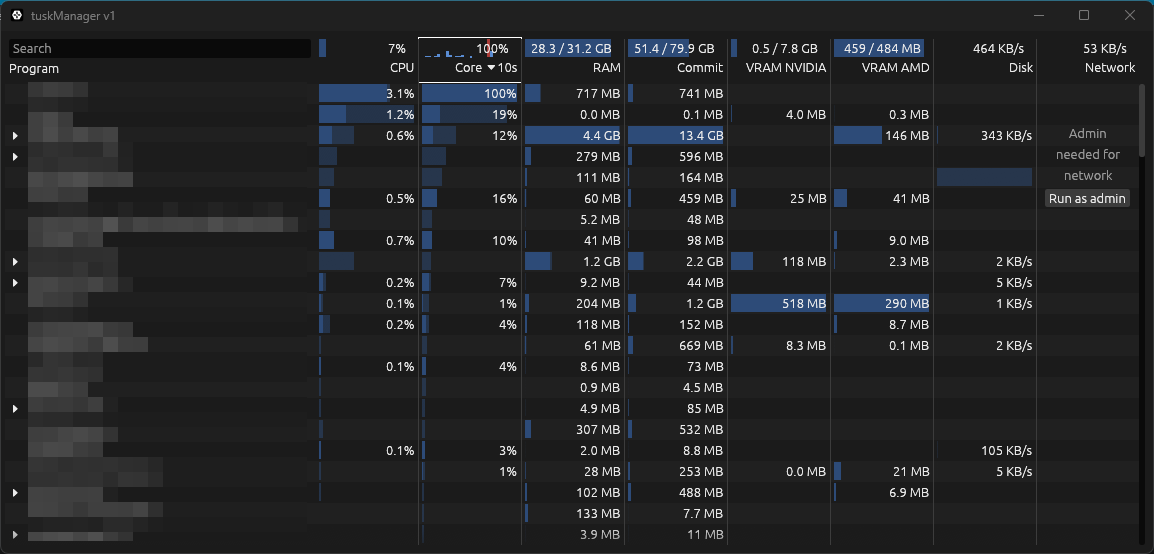
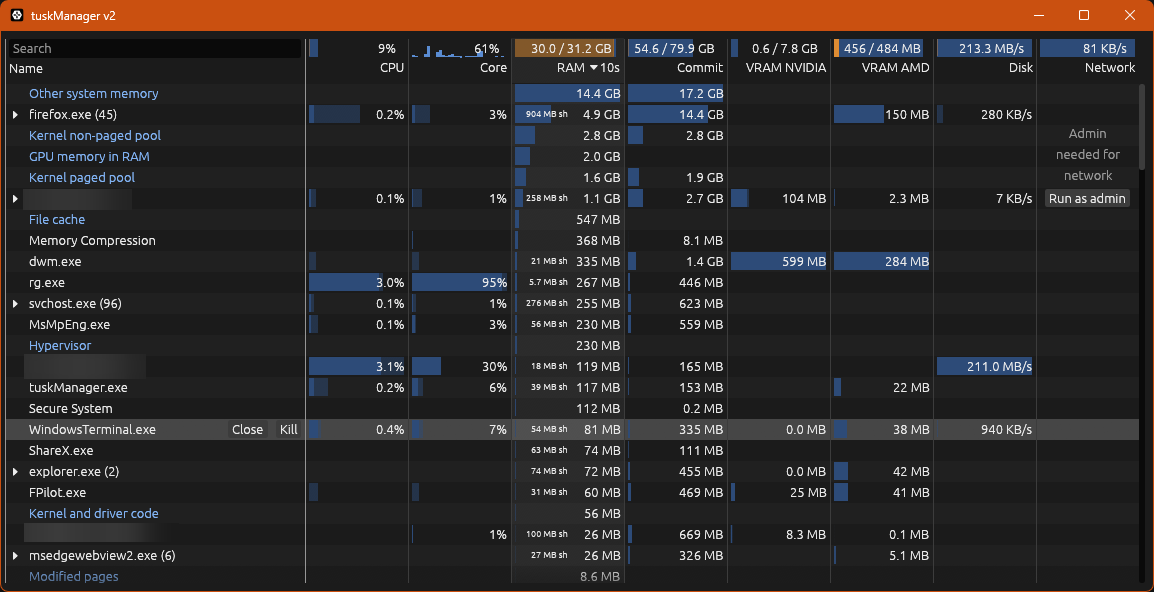
Update readme

diff --git a/README.md b/README.md
@@ -3,8 +3,11 @@
 Simple replacement for Task Manager that suits a very particular set of needs (mine):
 
  - Show single-core bottlenecks
+ - Non-process entries eating ram
  - Faster close/kill access
  - Per-gpu vram use
+ - Sorting by last-10-seconds peak
+ - Few more small details
 
 ![tuskManager](screenshot.png)
 
